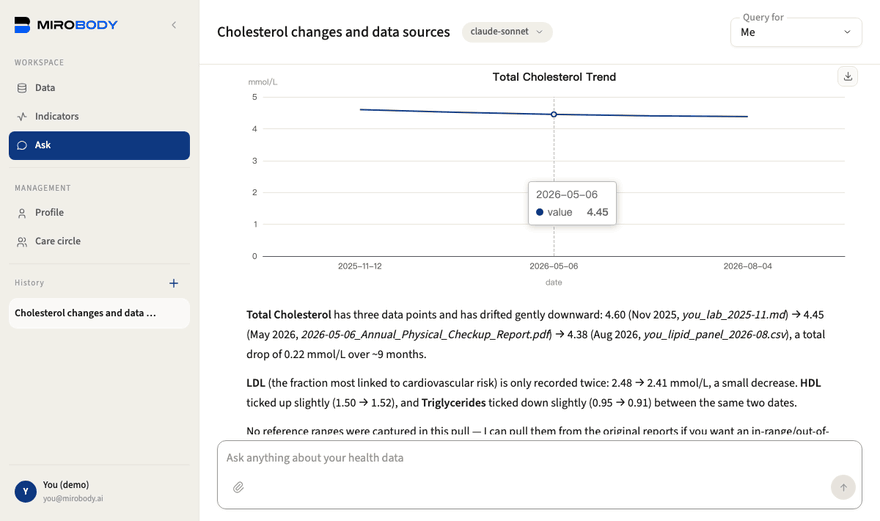
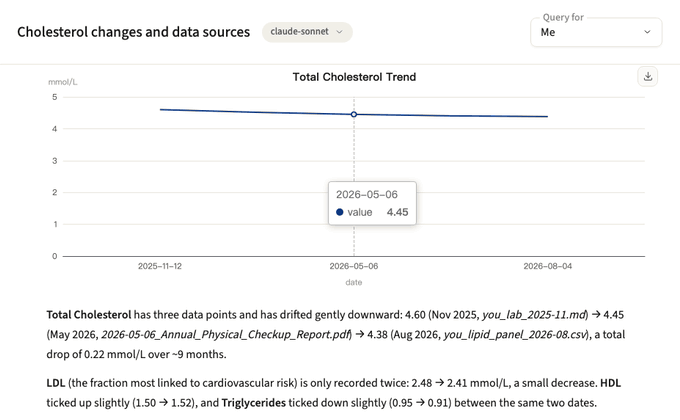
docs: the social card's screenshot fits inside the card
The product frame sat at right:-40px, so its right edge, file names
included, ran off the 1280x640 canvas. It is now cropped to the main
panel, inset 56px from the edge, and ends above the footer line.

diff --git a/docs/images/social-preview.html b/docs/images/social-preview.html
@@ -5,7 +5,7 @@
 
      It carries the README's own pitch: the headline, the two ways to run it,
      and a real frame of the product (frame 124 of docs/images/ask-own-demo.gif,
-     saved as social-preview-frame.png). 317/317 is the README's gated score;
+     cropped to the main panel and saved as social-preview-frame.png). 317/317 is the README's gated score;
      nothing here is gated, so re-read it off the README before re-rendering. -->
 <html><head><meta charset="utf-8"><title>Mirobody social preview</title>
 <style>
@@ -16,8 +16,8 @@ body{font-family:Inter,"Helvetica Neue",Arial,"PingFang SC",sans-serif;color:#e6
              radial-gradient(700px 480px at 0% 100%,rgba(105,68,154,.25),transparent 60%),#0d1117}
 .page{position:relative;width:1280px;height:640px;padding:56px 64px}
 .mark{font-size:22px;font-weight:700;letter-spacing:.32em;color:#9db8e8}
-.left{position:absolute;left:64px;top:118px;width:560px}
-h1{font-size:54px;line-height:1.08;letter-spacing:-.02em;font-weight:750;color:#fff}
+.left{position:absolute;left:64px;top:118px;width:520px}
+h1{font-size:50px;line-height:1.08;letter-spacing:-.02em;font-weight:750;color:#fff}
 h1 em{font-style:normal;color:#7aa7f0}
 .sub{margin-top:22px;font-size:23px;line-height:1.45;color:#aab8c6}
 .chips{margin-top:30px;display:flex;flex-direction:column;gap:12px}
@@ -28,7 +28,7 @@ h1 em{font-style:normal;color:#7aa7f0}
 .dot{width:10px;height:10px;border-radius:50%}
 .foot{position:absolute;left:64px;bottom:44px;font-size:18px;color:#8598ab}
 .foot b{color:#dbe4ec;font-weight:600}
-.shot{position:absolute;right:-40px;top:96px;width:640px;border-radius:16px;overflow:hidden;
+.shot{position:absolute;right:56px;top:104px;width:580px;border-radius:16px;overflow:hidden;
   border:1px solid rgba(255,255,255,.16);box-shadow:0 30px 80px rgba(0,0,0,.55)}
 .shot .bar{height:30px;background:#1b2330;display:flex;align-items:center;gap:7px;padding-left:14px}
 .shot .bar i{width:11px;height:11px;border-radius:50%;background:#3a4556;display:block}
